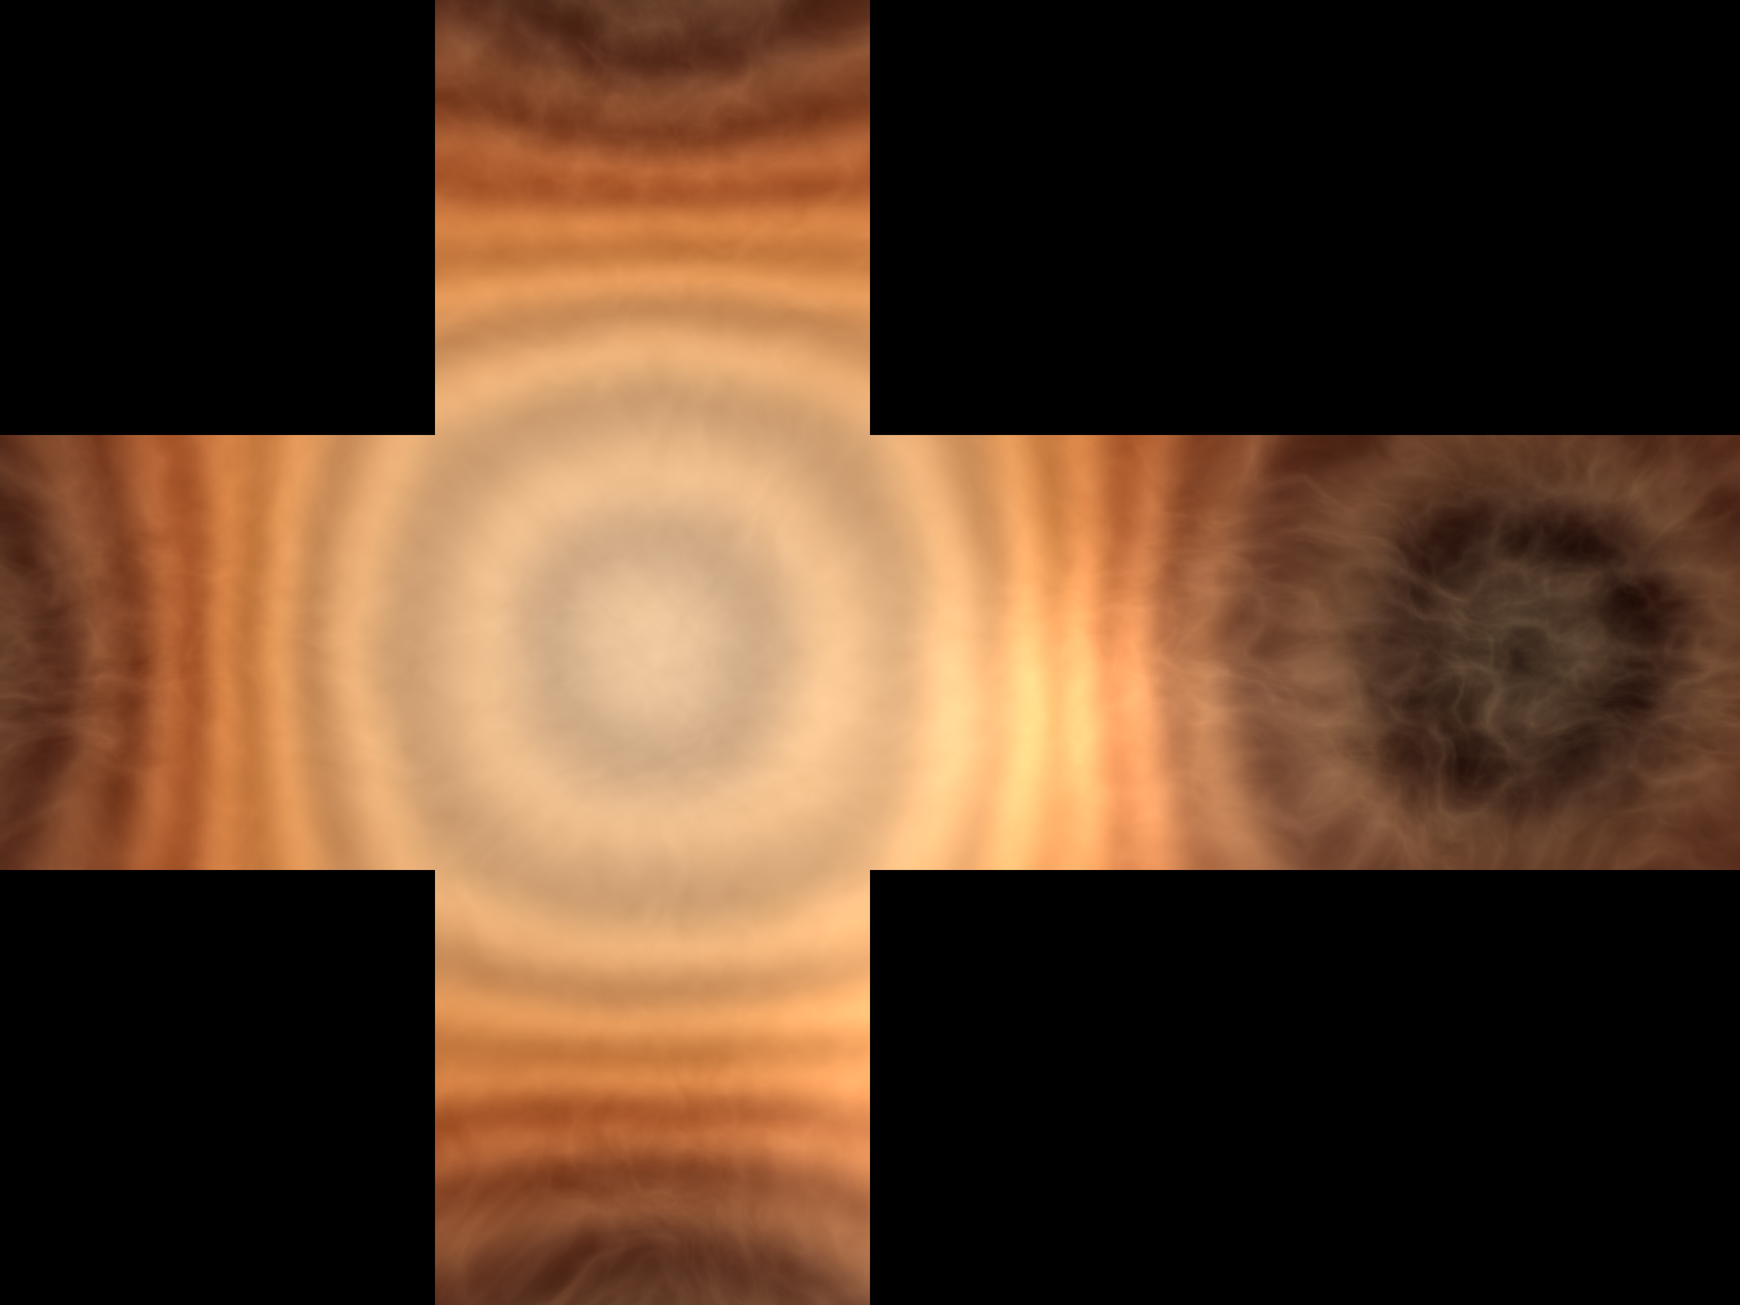
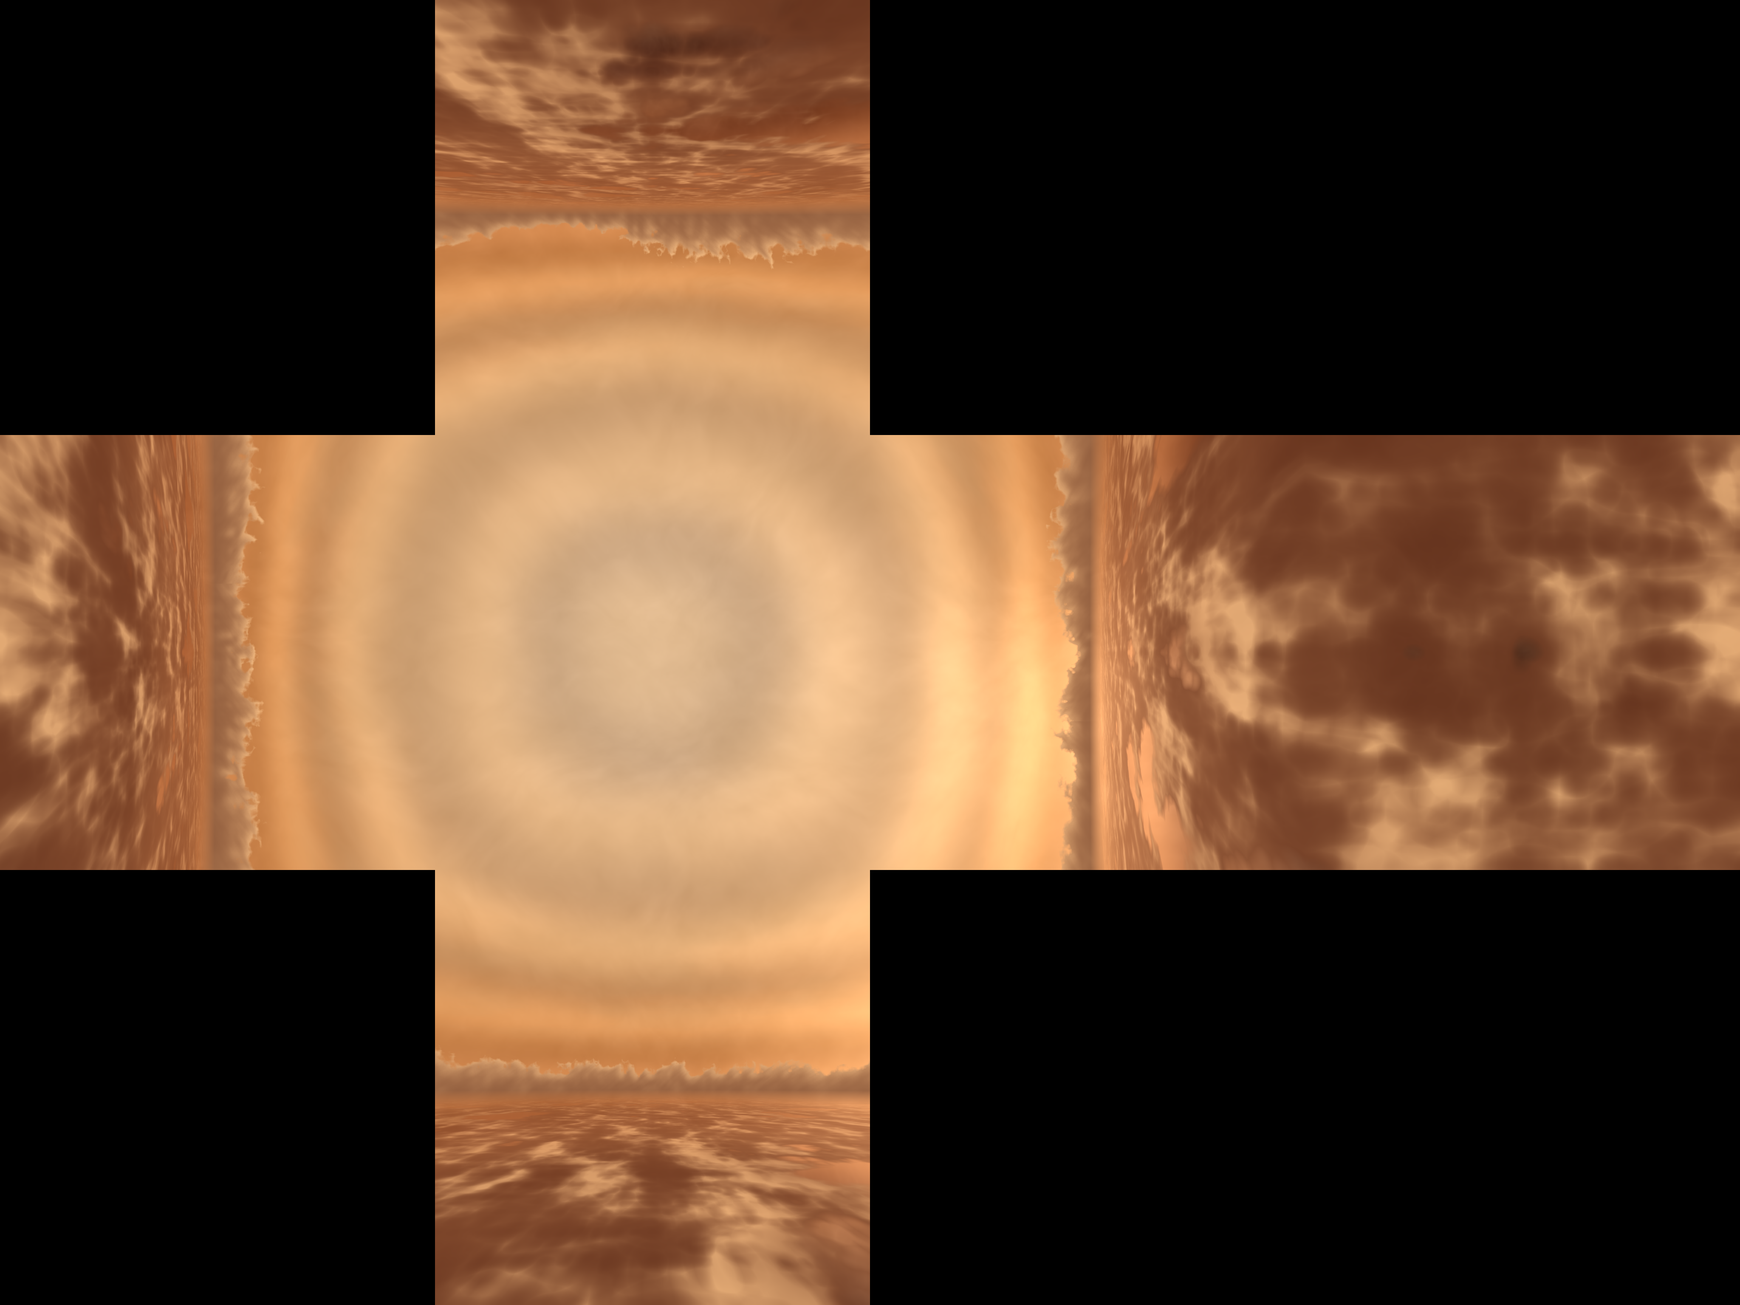
Skies with cloud forms; clouds scaled like asteroids; more cloud below; big nebulae
- Skyboxes: the six skies were banded gradients with no cloud in them. Now each has a
  cloud sea below (fractal density on a plane, self-shadowed toward the sun), cumulus
  towers ringing the horizon, and - in the storm and deep bands - an overcast overhead,
  so you are IN the layer. Still direction-pure: all 12 cube edges consistent.
- Clouds scale per instance like LM asteroids (size, per-axis stretch, slow yaw drift);
  depletion shrinks from the spawned size.
- venus_world_spawn: floor 36 -> 60 big stratus, a new layer of 40 clouds between the lanes
  and the floor, and 36 nebulae along the cloud base.
- Each cloud's nebula is 2.6x its radius (up to 5000), written past the library's 1500 cap.
Engine: salvage map, no script errors.

diff --git a/_gen_skybox.py b/_gen_skybox.py
@@ -196,6 +196,165 @@ def _ramp(alt, stops):
     return out
 
 
+def _billow(q, seed, octaves=5):
+    """Puffy cumulus heights: |noise| folded UP (the inverse of ridged), so the tops are
+    round and the gaps between them are the sharp creases."""
+    total = np.zeros(q.shape[:-1], dtype=np.float32)
+    amp, freq, norm = 1.0, 1.0, 0.0
+    for o in range(octaves):
+        n = _value_noise(q * freq, seed + o * 577)
+        total += amp * np.abs(n * 2.0 - 1.0)
+        norm += amp
+        amp *= 0.5
+        freq *= 2.0
+    return 1.0 - total / norm
+
+
+def _puffs(u, v, seed, jitter=0.9):
+    """Cellular cumulus as a SOFT field: every cell's puff is a smooth kernel (1-d^2)^2 and
+    the kernels are SUMMED over the 3x3 neighborhood, so neighboring lobes merge the way
+    cloud does. (Taking the max instead left hard creases - a cracked tile floor.)"""
+    iu = np.floor(u).astype(np.int64)
+    iv = np.floor(v).astype(np.int64)
+    total = np.zeros(u.shape, np.float32)
+    for oy in (-1, 0, 1):
+        for ox in (-1, 0, 1):
+            cu, cv = iu + ox, iv + oy
+            zero = np.zeros_like(cu)
+            pu = cu + 0.5 + (_hash3(cu, cv, zero, seed) - 0.5) * jitter
+            pv = cv + 0.5 + (_hash3(cu, cv, zero, seed + 17) - 0.5) * jitter
+            r = 0.75 + 0.55 * _hash3(cu, cv, zero, seed + 29)
+            d2 = ((u - pu) ** 2 + (v - pv) ** 2) / (r * r)
+            k = np.clip(1.0 - d2, 0.0, 1.0)
+            total += k * k * r
+    return total
+
+
+def _domes(az, alt, seed, count, height, width):
+    """Cumulus towers on the horizon as a SOFT field in (azimuth, altitude): each tower is a
+    column of lobes shrinking as it rises, every lobe a smooth kernel, all SUMMED so the
+    lobes merge. Threshold it for the silhouette; its slope is the lighting."""
+    rng = np.random.default_rng(seed)
+    field = np.zeros(az.shape, np.float32)
+    for i in range(count):
+        a0 = rng.uniform(-math.pi, math.pi)
+        tall = height * rng.uniform(0.3, 1.0) ** 1.5
+        w0 = width * rng.uniform(0.6, 1.4)
+        lobes = 4 + int(tall / height * 8)
+        for k in range(lobes):
+            f = rng.uniform(0.0, 1.0) ** 0.8
+            cx = a0 + rng.normal(0.0, 0.45) * w0 * (1.0 - 0.6 * f)
+            cy = tall * f * 0.9
+            rw = w0 * (0.55 + 0.5 * rng.uniform()) * (1.0 - 0.5 * f)
+            rh = rw * 0.85
+            da = np.angle(np.exp(1j * (az - cx))) / rw
+            dl = (alt - cy) / rh
+            kk = np.clip(1.0 - (da * da + dl * dl), 0.0, 1.0)
+            field += kk * kk
+    return field
+
+
+def _plane(d, y_sign, height, scale):
+    """Where each direction meets a horizontal cloud plane `height` above (+1) or below (-1)
+    the viewer, as 3D noise coordinates; plus the distance to it (for the haze fade)."""
+    dy = np.maximum(d[..., 1] * y_sign, 1e-3)
+    t = height / dy
+    q = np.stack([d[..., 0] * t * scale, np.full(dy.shape, 0.37, np.float32),
+                  d[..., 2] * t * scale], -1)
+    return q, t
+
+
+def _cloud_forms(d, alt, base, p):
+    sea_amp = p.get("sea_amp", 0.0)
+    bank_amp = p.get("bank_amp", 0.0)
+    ceil_amp = p.get("ceil_amp", 0.0)
+    fog = p.get("fog", 0.0)
+    sd = np.array(p["sun_dir"], np.float32)
+    sd = sd / np.linalg.norm(sd)
+    lit_c = np.array(p.get("sea_lit", (250, 232, 196)), np.float32)
+    shade_c = np.array(p.get("sea_shadow", (150, 110, 70)), np.float32)
+
+    if sea_amp > 0:
+        # The sea below. A fractal DENSITY on a plane under the viewer (billowed, so it
+        # clumps into lobes), cut to a silhouette, and SELF-SHADOWED: a few samples stepped
+        # toward the sun - thick cloud between a point and the sun darkens it, which is
+        # what gives cumulus its volume. The horizon haze eats it with distance.
+        q, t = _plane(d, -1.0, p.get("sea_depth", 1.0), p.get("sea_scale", 0.5))
+        u, v = q[..., 0] * 0.8, q[..., 2] * 0.8
+        near = np.exp(-t * 0.35)
+
+        def dens(uu, vv):
+            pp = np.stack([uu, np.full(uu.shape, 0.5, np.float32), vv], -1)
+            big = _billow(pp, p["seed"] + 1201, octaves=4)
+            fine = _billow(pp * 5.0, p["seed"] + 1211, octaves=3)
+            return big * 0.9 + (fine - 0.5) * 0.35 * (0.3 + 0.7 * near)
+
+        dd = dens(u, v)
+        su, sv = sd[0], sd[2]
+        sl = math.hypot(su, sv) or 1.0
+        occl = np.zeros(u.shape, np.float32)
+        for k in range(1, 5):
+            st = 0.06 * k
+            occl += np.clip(dens(u + su / sl * st, v + sv / sl * st) - dd * 0.9, 0.0, None)
+        light = np.exp(-occl * 5.0) * (0.45 + 0.55 * np.clip((dd - 0.5) * 3.0, 0.0, 1.0))
+        light = np.clip(light, 0.0, 1.0)[..., None]
+        cover = np.clip((dd - p.get("sea_gap", 0.5)) / 0.08, 0.0, 1.0)
+        color = shade_c * (1 - light) + lit_c * light
+        below = np.clip((-alt - 0.015) / 0.06, 0.0, 1.0)
+        far = np.exp(-t * p.get("sea_haze", 0.12))
+        w = (cover * below * far * sea_amp)[..., None]
+        base = base * (1 - w) + color * w
+
+    if bank_amp > 0:
+        # Towers on the horizon, the same way in (azimuth, altitude): a billowed density
+        # under a ragged height envelope that varies around the ring, self-shadowed by
+        # stepping toward the sun (sideways by azimuth, upward by altitude).
+        az = np.arctan2(d[..., 0], d[..., 2])
+        height = p.get("bank_height", 0.22)
+        ring = np.stack([np.cos(az) * 2.2, np.sin(az) * 2.2, np.full(az.shape, 0.3, np.float32)], -1)
+        top = height * (0.25 + 1.1 * np.power(np.clip(_fbm(ring, p["seed"] + 1301, 4) * 1.6 - 0.3, 0.0, 1.0), 2.0))
+
+        def dens(a_, l_):
+            pp = np.stack([np.cos(a_) * 16.0, l_ * 16.0, np.sin(a_) * 16.0], -1)
+            b_ = _billow(pp, p["seed"] + 1307, octaves=4)
+            env = 1.0 - np.clip((l_ + 0.02) / np.maximum(top, 1e-3), 0.0, 1.2)
+            return b_ * 0.6 + env * 0.75 - 0.15
+
+        dd = dens(az, alt)
+        saz = math.atan2(sd[0], sd[2])
+        rel = np.sign(np.sin(np.angle(np.exp(1j * (saz - az)))))
+        occl = np.zeros(az.shape, np.float32)
+        for k in range(1, 5):
+            st = 0.006 * k
+            occl += np.clip(dens(az + rel * st, alt + st * 0.8) - 0.45, 0.0, None)
+        feet = np.clip((alt + 0.02) / max(height, 1e-3), 0.0, 1.0)
+        light = np.clip(np.exp(-occl * 0.8) * (0.45 + 0.55 * feet) + 0.1, 0.0, 1.0)[..., None]
+        inside = np.clip((dd - 0.45) / 0.1, 0.0, 1.0) * np.clip((alt + 0.06) / 0.05, 0.0, 1.0)
+        color = shade_c * (1 - light) + lit_c * light
+        w = (inside * bank_amp)[..., None]
+        base = base * (1 - w) + color * w
+
+    if ceil_amp > 0:
+        # An overcast overhead - the layer above you - streaked along the zonal wind.
+        q, t = _plane(d, 1.0, p.get("ceil_height", 1.0), p.get("ceil_scale", 1.2))
+        q = q * np.array([0.7, 1.0, 1.0], np.float32)        # a little stretched: wind
+        n = _fbm(q, p["seed"] + 1401, 5)
+        cover = np.clip((n - p.get("ceil_gap", 0.42)) / 0.2, 0.0, 1.0)
+        # faded out well above the horizon: the plane's grazing rows stretch into arcs
+        above = np.clip((alt - 0.12) / 0.3, 0.0, 1.0)
+        far = np.exp(-t * 0.3)
+        under = np.array(p.get("ceil_color", (190, 150, 104)), np.float32)
+        w = (cover * above * (0.35 + 0.65 * far) * ceil_amp)[..., None]
+        base = base * (1 - w) + under * w
+
+    if fog > 0:
+        # Inside the layer: everything milky toward the horizon, where the most air is.
+        mist = np.array(p.get("fog_color", (214, 186, 146)), np.float32)
+        w = (fog * (1.0 - np.abs(alt)) ** 3)[..., None]
+        base = base * (1 - w) + mist * w
+    return base
+
+
 def shade(d, p):
     """Color a set of directions. `p` is the variant's parameter dict."""
     alt = d[..., 1].copy()
@@ -228,6 +387,10 @@ def shade(d, p):
     cosang = np.clip((d * sd).sum(-1), -1.0, 1.0)
     glow = np.power(np.clip(cosang, 0.0, 1.0), p["sun_tight"])
     base += glow[..., None] * np.array(p["sun_tint"], np.float32) * p["sun_amp"]
+
+    # ---- Cloud FORMS (2026-09-25). Everything above is gradients and bands; nothing in it
+    # reads as a CLOUD, so the sky said "haze" and never "you are flying in the clouds".
+    base = _cloud_forms(d, alt, base, p)
 
     # Lightning: sparse, only down in the deck, where the concept art puts it.
     if p.get("lightning_amp", 0) > 0:
@@ -310,22 +473,36 @@ def _v(**kw):
 
 
 VARIANTS = {
+    # Cloud forms by band (2026-09-25): high = the sea far below; lanes = the sea below and
+    # towers on the horizon; storm/deep = INSIDE the layer, cloud overhead as well as below.
     "venus_sky_high_haze": ("Venus - High Haze (pale gold)", _v(
-        seed=1101, stops=_HIGH, bands=6.0, cloud_amp=40.0, sun_amp=86.0, sun_tight=5.5)),
+        seed=1101, stops=_HIGH, bands=6.0, cloud_amp=40.0, sun_amp=86.0, sun_tight=5.5,
+        sea_amp=1.0, sea_depth=2.2, sea_scale=0.35, bank_amp=0.8, bank_height=0.1,
+        fog=0.1, sea_lit=(255, 244, 218), sea_shadow=(176, 140, 96))),
     "venus_sky_midday": ("Venus - Midday Deck (amber)", _v(
-        seed=2202, stops=_DAY)),
+        seed=2202, stops=_DAY, sea_amp=1.0, bank_amp=0.9, ceil_amp=0.35, fog=0.18,
+        sea_shadow=(132, 92, 54))),
     "venus_sky_dusk": ("Venus - Terminator Dusk (orange)", _v(
         seed=3303, stops=_DUSK, sun_dir=(0.95, -0.05, 0.30), sun_tight=4.0, sun_amp=96.0,
-        bands=8.0)),
+        bands=8.0, sea_amp=1.0, bank_amp=0.95, bank_height=0.26, ceil_amp=0.3, fog=0.16,
+        sea_lit=(250, 190, 130), sea_shadow=(110, 56, 32))),
     "venus_sky_stormwall": ("Venus - Storm Wall (dark umber)", _v(
         seed=4404, stops=_STORM, warp=0.85, cloud_freq=5.5, cloud_amp=64.0,
-        sun_amp=34.0, lightning_amp=150.0)),
+        sun_amp=34.0, lightning_amp=150.0, sea_amp=0.95, sea_depth=0.7, bank_amp=1.0,
+        bank_height=0.38, ceil_amp=0.5, ceil_height=0.6, ceil_gap=0.45, fog=0.3,
+        sea_lit=(196, 164, 124), sea_shadow=(58, 40, 28), ceil_color=(96, 72, 50),
+        fog_color=(120, 94, 66))),
     "venus_sky_deep": ("Venus - Deep Deck (oppressive)", _v(
         seed=5505, stops=_DEEP, bands=9.0, cloud_amp=58.0, sun_amp=22.0, sun_tight=10.0,
-        lightning_amp=110.0, lightning_thresh=0.84)),
+        lightning_amp=110.0, lightning_thresh=0.84, sea_amp=0.9, sea_depth=0.45,
+        bank_amp=0.9, bank_height=0.3, ceil_amp=0.9, ceil_height=0.5, ceil_gap=0.25,
+        fog=0.38, sea_lit=(150, 112, 70), sea_shadow=(40, 26, 16), ceil_color=(84, 60, 38),
+        fog_color=(96, 70, 44))),
     "venus_sky_nightside": ("Venus - Nightside (dim sulfur)", _v(
         seed=6606, stops=_NIGHT, sun_amp=8.0, cloud_amp=34.0, detail_amp=9.0,
-        lightning_amp=190.0, lightning_thresh=0.86)),
+        lightning_amp=190.0, lightning_thresh=0.86, sea_amp=0.9, bank_amp=0.8,
+        ceil_amp=0.4, fog=0.2, sea_lit=(120, 102, 86), sea_shadow=(34, 24, 18),
+        ceil_color=(60, 50, 44), fog_color=(70, 58, 50))),
 }
 
 

diff --git a/venus_fleets/venus_world.py b/venus_fleets/venus_world.py
@@ -24,6 +24,15 @@ VENUS_STORM_BLINK = (18, 30)     # storm cells: lightning blink delay range
 VENUS_PULSE = (40, 70)           # aether and spore clouds: slow pulse delay range
 VENUS_PULSE_RESOURCES = ("aether", "medicine")
 VENUS_NPC_LIFT_PER_HULL = 0.12
+# Clouds are scaled per instance, the way LM scales asteroids: a size, stretched a little
+# per axis, and a slow drift in yaw - so no two read as the same mesh.
+VENUS_CLOUD_SIZE = (0.7, 2.4)     # plain clouds
+VENUS_RESOURCE_SIZE = (0.8, 1.5)  # resource clouds (their stock does not scale with them)
+VENUS_CLOUD_DRIFT = (0.00003, 0.00025)
+# The engine nebula inside a cloud (its sensor cover). The library caps a nebula at 1500
+# across (terrain.NEB_MAX_SIZE); a cloud's own nebula is written past that cap.
+VENUS_NEBULA_SPAN = 2.6           # nebula diameter as a multiple of the cloud's radius
+VENUS_NEBULA_MAX = 5000.0
 # Units a hold carries, by role. Without a cap a crew parked in one cloud until it was gone
 # (a balance session hauled 200 a trip only because the autopilot chose to turn back).
 # The cap is what makes the logistics hulls worth flying and the trip home the game.
@@ -91,7 +100,7 @@ def venus_hangar_stock(obj, info=None):
 
 
 # --------------------------------------------------------------------------- spawning
-def venus_cloud_spawn(key, x, y, z, cover=True):
+def venus_cloud_spawn(key, x, y, z, cover=True, scale=None):
     """Place one cloud (a venus_cloud_* hull) as passive terrain. Resource clouds get a
     stock to harvest. cover=True puts an engine nebula inside it - the engine's own
     sensor cover, which is what makes hiding in a cloud real."""
@@ -107,7 +116,18 @@ def venus_cloud_spawn(key, x, y, z, cover=True):
     if cid is None:
         return None
     add_role(cid, VENUS_CLOUD_ROLE)
-    set_inventory_value(cid, "venus_radius", info["radius"])
+    if scale is None:
+        scale = random.uniform(*(VENUS_RESOURCE_SIZE if info.get("resource") else VENUS_CLOUD_SIZE))
+    sx = scale * random.uniform(0.9, 1.3)
+    sy = scale * random.uniform(0.6, 1.0)
+    sz = scale * random.uniform(0.9, 1.3)
+    venus_cloud_scale(obj, (sx, sy, sz))
+    try:
+        obj.engine_object.steer_yaw = random.uniform(*VENUS_CLOUD_DRIFT) * random.choice((-1, 1))
+    except Exception:
+        pass
+    radius = info["radius"] * max(sx, sz)
+    set_inventory_value(cid, "venus_radius", radius)
     if info.get("resource"):
         add_role(cid, "venus_resource")
         set_inventory_value(cid, "venus_resource", info["resource"])
@@ -130,21 +150,47 @@ def venus_cloud_spawn(key, x, y, z, cover=True):
         # ONE engine nebula, cloud-sized, at the cloud's own position. Engine-measured: the
         # sphere-cluster helper spawned none inside a 600-unit cloud (inside_nebula_count
         # stayed 0), and terrain_nebula_spawn forces y onto the 0 plane.
-        try:
-            from sbs_utils.procedural.terrain import terrain_setup_nebula
-            neb = terrain_spawn(x, y, z, None, "#, nebula", "nebula", "behav_nebula")
-            neb.blob.set("unselectable", 1)
-            terrain_setup_nebula(neb, min(1500.0, info["radius"] * 2.0), 0.6, "yellow")
-            set_inventory_value(cid, "venus_nebulae", [to_id(neb)])
-        except Exception:
-            pass
+        nid = venus_nebula(x, y, z, min(VENUS_NEBULA_MAX, radius * VENUS_NEBULA_SPAN), 0.6)
+        if nid is not None:
+            set_inventory_value(cid, "venus_nebulae", [nid])
     return cid
 
 
+def venus_cloud_scale(obj, scale):
+    """Set a cloud's per-axis scale and remember it (depletion shrinks FROM it)."""
+    from sbs_utils.procedural.inventory import set_inventory_value
+    sx, sy, sz = scale
+    try:
+        ds = obj.data_set
+        ds.set("local_scale_x_coeff", sx, 0)
+        ds.set("local_scale_y_coeff", sy, 0)
+        ds.set("local_scale_z_coeff", sz, 0)
+        set_inventory_value(obj.id, "venus_scale", (sx, sy, sz))
+    except Exception:
+        pass
+
+
+def venus_nebula(x, y, z, diameter, density=0.6, color="yellow"):
+    """An engine nebula of any size (the library setup caps it at 1500). Returns its id."""
+    from sbs_utils.procedural.spawn import terrain_spawn
+    from sbs_utils.procedural.query import to_id
+    try:
+        from sbs_utils.procedural.terrain import terrain_setup_nebula
+        neb = terrain_spawn(x, y, z, None, "#, nebula", "nebula", "behav_nebula")
+        neb.blob.set("unselectable", 1)
+        terrain_setup_nebula(neb, diameter, density, color)
+        for k in ("size", "display_size", "effect_size"):
+            neb.blob.set(k, float(diameter))
+        return to_id(neb)
+    except Exception:
+        return None
+
+
 def venus_world_spawn(cx=0.0, cz=0.0, radius=40000.0, lanes=24, resources=10, storms=2, wrecks=3,
-                      floor=36, seed=None):
-    """Dress a map: a cloud-sea floor at the deck band, scattered lane clouds, resource
-    clouds, storm cells and wrecks. Returns a short status string."""
+                      floor=60, under=40, base=36, seed=None):
+    """Dress a map: a cloud-sea floor at the deck band, a layer of cloud BELOW the lanes
+    (between the crews and the floor), nebula haze along the cloud base, scattered lane
+    clouds, resource clouds, storm cells and wrecks. Returns a short status string."""
     rng = random.Random(seed)
     clouds = list((venus_manifest().get("clouds") or {}).keys())
     plain = [k for k in clouds if not (venus_manifest()["clouds"][k].get("resource")
@@ -162,7 +208,18 @@ def venus_world_spawn(cx=0.0, cz=0.0, radius=40000.0, lanes=24, resources=10, st
     n = 0
     for i in range(floor):                         # the sea you can see down there
         x, z = at(0, radius * 1.2)
-        n += venus_cloud_spawn("venus_cloud_stratus_bank", x, floor_y + rng.uniform(-400, 400), z, cover=False) is not None
+        n += venus_cloud_spawn("venus_cloud_stratus_bank", x, floor_y + rng.uniform(-400, 400), z, cover=False,
+                               scale=rng.uniform(1.6, 3.6)) is not None
+    below = [k for k in plain if "stratus" in k or "cumulus" in k] or plain
+    for i in range(under):                         # the layer between you and the floor
+        x, z = at(0, radius * 1.1)
+        n += venus_cloud_spawn(rng.choice(below), x, rng.uniform(floor_y + 800, -1800), z, cover=False,
+                               scale=rng.uniform(1.2, 3.0)) is not None
+    nebs = 0
+    for i in range(base):                          # the haze the cloud base sits in
+        x, z = at(0, radius * 1.15)
+        nebs += venus_nebula(x, floor_y + rng.uniform(-200, 900), z, rng.uniform(3500, VENUS_NEBULA_MAX),
+                             0.8) is not None
     for i in range(lanes):
         x, z = at(radius * 0.1, radius)
         n += venus_cloud_spawn(rng.choice(plain), x, rng.uniform(-2500, 2500), z) is not None
@@ -175,7 +232,7 @@ def venus_world_spawn(cx=0.0, cz=0.0, radius=40000.0, lanes=24, resources=10, st
     for i in range(wrecks):
         x, z = at(radius * 0.3, radius)
         n += venus_cloud_spawn(rng.choice(wreck), x, rng.uniform(-5000, -2000), z) is not None
-    return "venus world: " + str(n) + " clouds"
+    return "venus world: " + str(n) + " clouds, " + str(nebs) + " base nebulae"
 
 
 # --------------------------------------------------------------------------- the tick
@@ -262,10 +319,10 @@ def _venus_harvest(ship, cloud, dt):
     if res == "salvage" and venus_lift_get(ship) < 1.0:
         venus_lift_restore(ship, take / 60.0)
     full = get_inventory_value(cloud.id, "venus_stock_full", stock) or 1.0
-    try:
-        cloud.data_set.set("local_scale_coeff", max(0.35, stock / full), 0)
-    except Exception:
-        pass
+    base = get_inventory_value(cloud.id, "venus_scale", None) or (1.0, 1.0, 1.0)
+    f = max(0.35, stock / full)
+    venus_cloud_scale(cloud, tuple(b * f for b in base))
+    set_inventory_value(cloud.id, "venus_scale", base)      # keep the FULL size as the base
     if stock <= 0:
         for nid in get_inventory_value(cloud.id, "venus_nebulae", []) or []:
             try:

diff --git a/venus_fleets/venus_abilities.py b/venus_fleets/venus_abilities.py
@@ -225,7 +225,7 @@ def _venus_wind_wisps(x0, z0, x1, z1, y):
             from sbs_utils.procedural.query import to_object
             o = to_object(cid)
             o.engine_object.steer_yaw = 0
-            o.data_set.set("local_scale_coeff", 0.45, 0)
+            venus_cloud_scale(o, (0.45, 0.35, 0.8))           # a thin streak along the wind
         except Exception:
             pass
         try:
